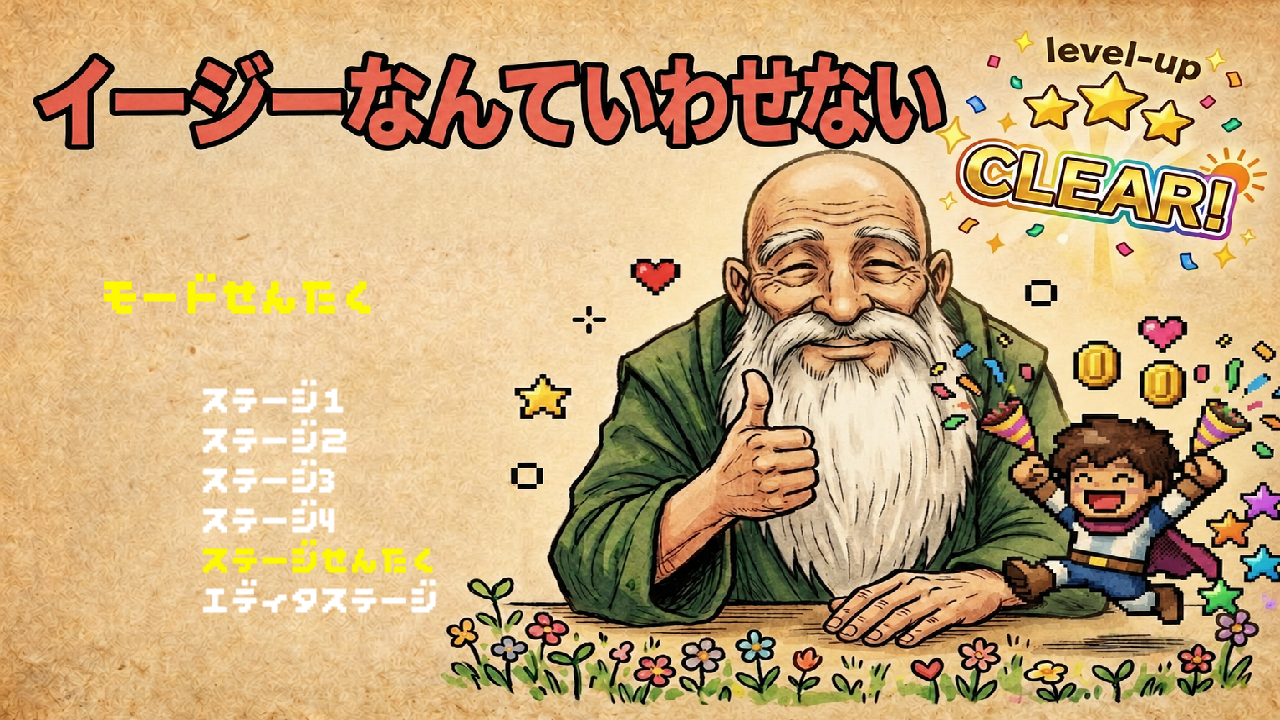
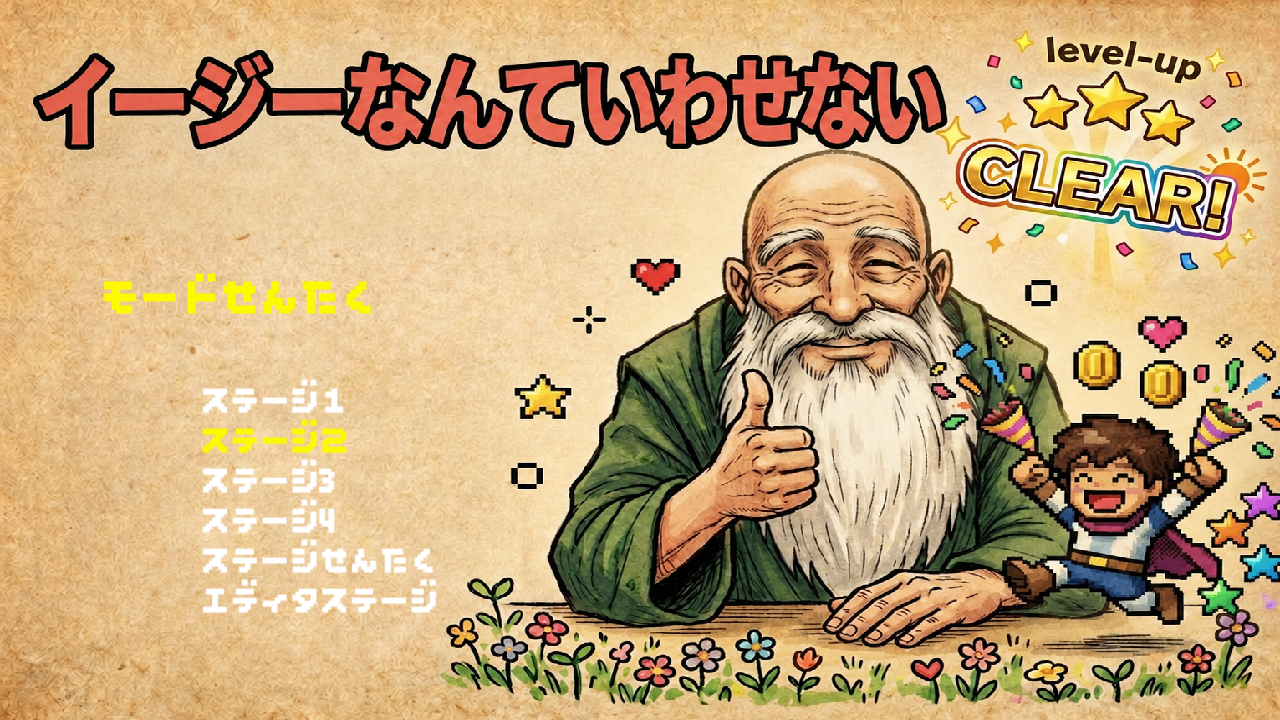
Stageの処理を抽象化
stagetype.hにあった処理をデータとして一つにまとめ管理をしやすくする。
gimmickgroup.hにデータをまとめ抽象化する

Changed region(s): [[0.1562, 0.5806, 0.2812, 0.6417], [0.1562, 0.7333, 0.3438, 0.7944]]

diff --git a/2Dgame_1/GimmickGroup.h b/2Dgame_1/GimmickGroup.h
@@ -1,0 +1,84 @@
+#pragma once
+#include<array>
+#include<cstddef>
+#include<stdexcept>
+
+template<typename T, int N>//typename Tによって型を固定せずクラスを定義できるようになる
+//templateを使うことですべて同じGimmickGroupクラスを使えるようになる
+
+class GimmickGroup {
+private:
+	//データを自分で所有
+	std::array<T, N> objects{};
+	std::array<T, N> initialObjects{};
+	size_t count = 0;
+	//size_t は負の整数を扱わない型で、配列のサイズやインデックスに適している
+
+public:
+
+	void Reset() {
+		for (std::size_t i = 0; i < count; i++) {
+			objects[i] = initialObjects[i];
+		}
+	}
+
+	void SaveInitialState() {
+		for (std::size_t i = 0; i < count; i++) {
+			initialObjects[i] = objects[i];
+		}
+	}
+
+	//ギミックを追加する関数
+	bool Add(const T& object) {
+		if (count >= N) {
+			return false;
+		}
+
+		objects[count] = object;
+		initialObjects[count] = object;
+		count++;
+		return true;
+	}
+
+	//配列をprivateにしているため、外部から直接アクセスできないようにする
+	//Get関数によって、外部からギミックを取得することができるようにする
+	T& Get(std::size_t index) {
+		if (index < 0 || index >= count) {
+			throw std::out_of_range("Index out of range");
+		}
+		return objects[index];
+	}
+	/*取得したギミックを変更できる
+	auto& block = blocks.Get(0);
+	  block.isBroken = true;  が可能*/
+
+
+	  //const版のGet関数を追加することで、constなGimmickGroupオブジェクトからもギミックを取得できるようにする
+	const T& Get(std::size_t index) const {
+		if (index >= count) {
+			throw std::out_of_range("GimmickGroup index");
+		}
+
+		return objects[index];
+	}
+	/*const auto& group = stage.touchBreakBlocks;
+	 const auto& block = group.Get(0);とすると 取得したブロックを読み取ることはできても変更することはできない*/
+
+	 /*なぜ2種類必要なのか？
+	 ゲームでは、処理の目的によってデータを変更する必要が異なる
+	処理	必要な操作
+	StageUpdate	ギミックの状態を変更する
+	StageCollision	当たり判定に応じて状態を変更する
+	StageDraw	ギミックの状態を読み取る
+	StageEditorIO	ギミックの状態を読み取ってエディタへ反映する
+	例えば描画処理では、基本的にギミックの状態を変更する必要がない
+	そこで const な参照を利用することで、意図しない状態変更を防ぐ*/
+
+	int Size() const {//管理しているギミックの個数を返す関数
+		return count;
+	}
+
+	void Clear() {//管理しているギミックをすべて削除する関数
+		count = 0;
+	}
+};

diff --git a/2Dgame_1/main.cpp b/2Dgame_1/main.cpp
@@ -420,6 +420,21 @@ allDialogTextへ追加
 		itemManager.RestorInitialItems();
 		};
 
+	// ================================================================
+    // 現在のステージでエディタを使用できるか
+    // Debug   : 全ステージ使用可能
+    // Release : エディタステージ(currentStage == 100)のみ使用可能
+   // ================================================================
+	auto CanUseStageEditor = [&]() ->bool {
+#ifdef _DEBUG
+		return true;
+#else
+		return currentStage == 100;
+#endif
+		};
+
+
+
 	auto EnterStageEditor = [&]() {
 		// プレイ中の画面パンチ演出を残したままエディタへ入らない。
 		ScreenPunchEffectReset(screenPunch);
@@ -694,6 +709,11 @@ allDialogTextへ追加
 
 		//プレイ画面
 		if (gameState == GameState::PLAYING) {
+			if(CanUseStageEditor() && (IsKeyPressed(KEY_V) || IsKeyPressed(KEY_F1))) {
+				EnterStageEditor();
+				continue;
+			}	
+
 			const bool isInvincible = (editorExitInvTimer > 0.0f);
 			PlayerStateUpdate(playerState, stage, enemyManager, itemManager, ojisan, camera, dt, isInvincible, audio);
 			UpdateSavePoints(stage, playerState, audio);//セーブポイントの更新

diff --git a/2Dgame_1/GameObjects.h b/2Dgame_1/GameObjects.h
@@ -318,9 +318,9 @@ struct FallingPlatform {
 struct UpDownPlatform {
 	Rectangle rect;
 	bool isrising;
-	bool riseHeight; // 上昇高さ
-	bool riseSpeed;  // 上昇速度
-	bool fallSpeed;  // 下降速度
+	float riseHeight; // 上昇高さ
+	float riseSpeed;  // 上昇速度
+    float fallSpeed;  // 下降速度
 	float upperY;     // 上昇限界Y座標
 	float lowerY;     // 下降限界Y座標
 	float timer;       // 経過時間

diff --git a/2Dgame_1/StageTypes.h b/2Dgame_1/StageTypes.h
@@ -5,6 +5,7 @@
 #include "StageTheme.h"
 #include "TiledMap.h"  
 #include "SpriteDatabase.h" 
+#include "GimmickGroup.h";
 
 // ================================================================
 // StageTypes.h の役割
